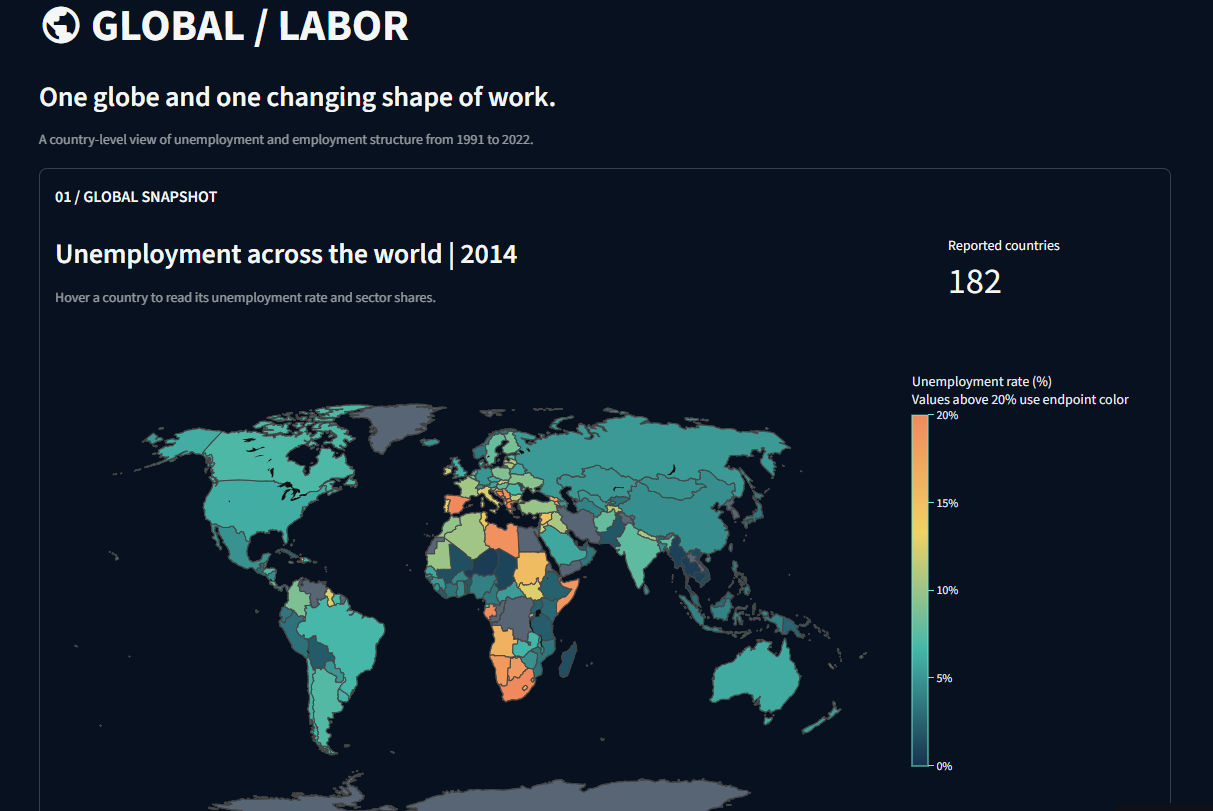
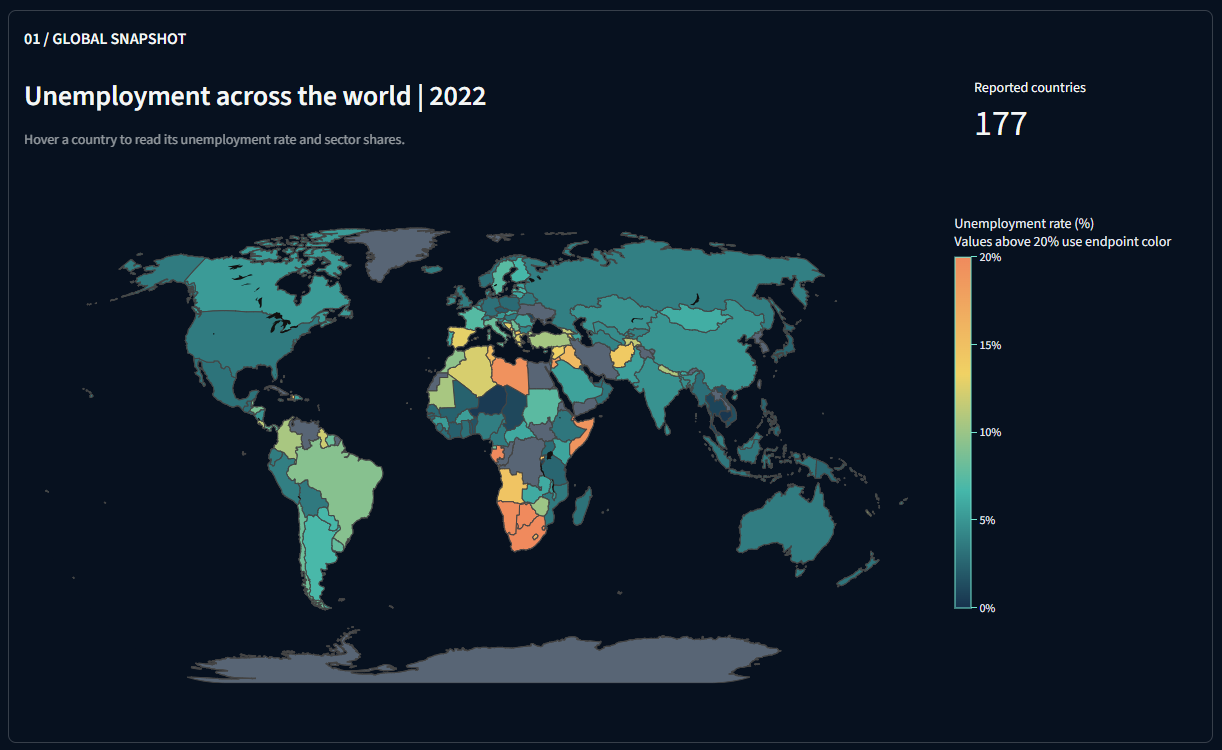
Update global labor image crop

diff --git a/index.html b/index.html
@@ -83,7 +83,7 @@
         <div class="project-list">
           <article class="project-card featured">
             <div class="project-image project-image-contained">
-              <img src="./images/global-labor.png" alt="Global Labor Explorer dashboard showing a world map colored by unemployment rate and sector composition" width="1213" height="811" loading="lazy">
+              <img src="./images/global-labor.png" alt="Global Labor Explorer dashboard showing a world map colored by unemployment rate and sector composition" width="1222" height="750" loading="lazy">
             </div>
             <div class="project-content">
               <p class="project-number">01 · DATA EXPLORATION</p>
